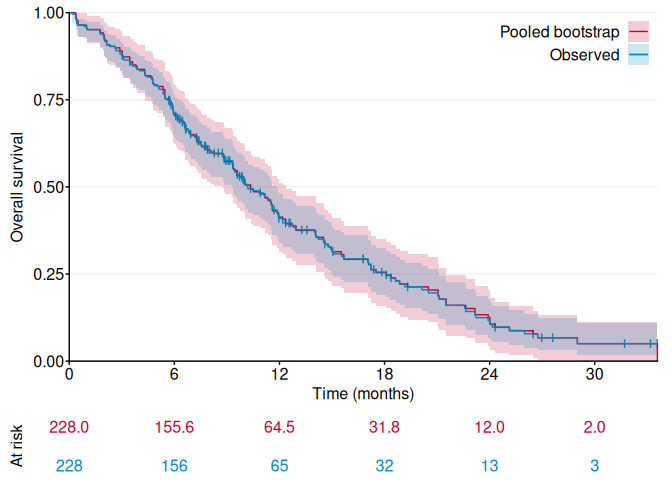
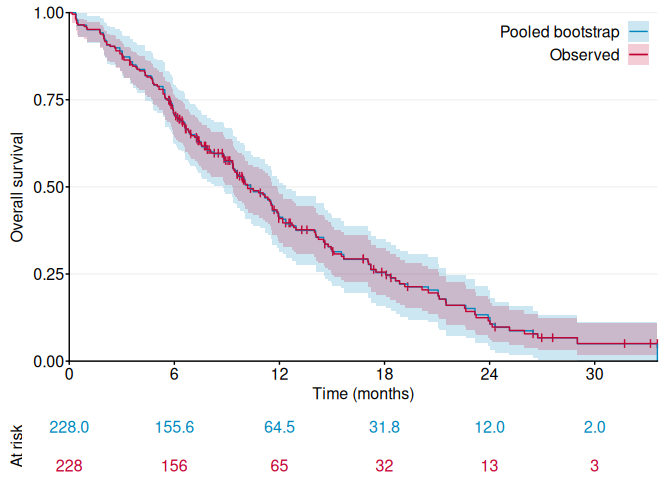
0.17.0

diff --git a/docs/reference/ggKM.Xvs1.html b/docs/reference/ggKM.Xvs1.html
@@ -53,7 +53,7 @@ multiply imputed datasets); arm 1 is individual-level survival data.</p>
 <span>  breaks.t <span class="op">=</span> <span class="cn">NULL</span>,</span>
 <span>  CI <span class="op">=</span> <span class="cn">TRUE</span>,</span>
 <span>  CI.alpha <span class="op">=</span> <span class="fl">0.2</span>,</span>
-<span>  colors <span class="op">=</span> <span class="fu"><a href="https://rdrr.io/r/base/c.html" class="external-link">c</a></span><span class="op">(</span><span class="st">"#C40233"</span>, <span class="st">"#0087BD"</span><span class="op">)</span>,</span>
+<span>  colors <span class="op">=</span> <span class="fu"><a href="https://rdrr.io/r/base/c.html" class="external-link">c</a></span><span class="op">(</span><span class="st">"#0087BD"</span>, <span class="st">"#C40233"</span><span class="op">)</span>,</span>
 <span>  digits.fixed <span class="op">=</span> <span class="fl">1</span>,</span>
 <span>  grid.color <span class="op">=</span> <span class="fu">grDevices</span><span class="fu">::</span><span class="fu"><a href="https://rdrr.io/r/grDevices/rgb.html" class="external-link">rgb</a></span><span class="op">(</span><span class="fl">0.95</span>, <span class="fl">0.95</span>, <span class="fl">0.95</span><span class="op">)</span>,</span>
 <span>  grid.s <span class="op">=</span> <span class="fu"><a href="https://rdrr.io/r/base/seq.html" class="external-link">seq</a></span><span class="op">(</span><span class="fl">0</span>, <span class="fl">1</span>, <span class="fl">0.25</span><span class="op">)</span>,</span>
